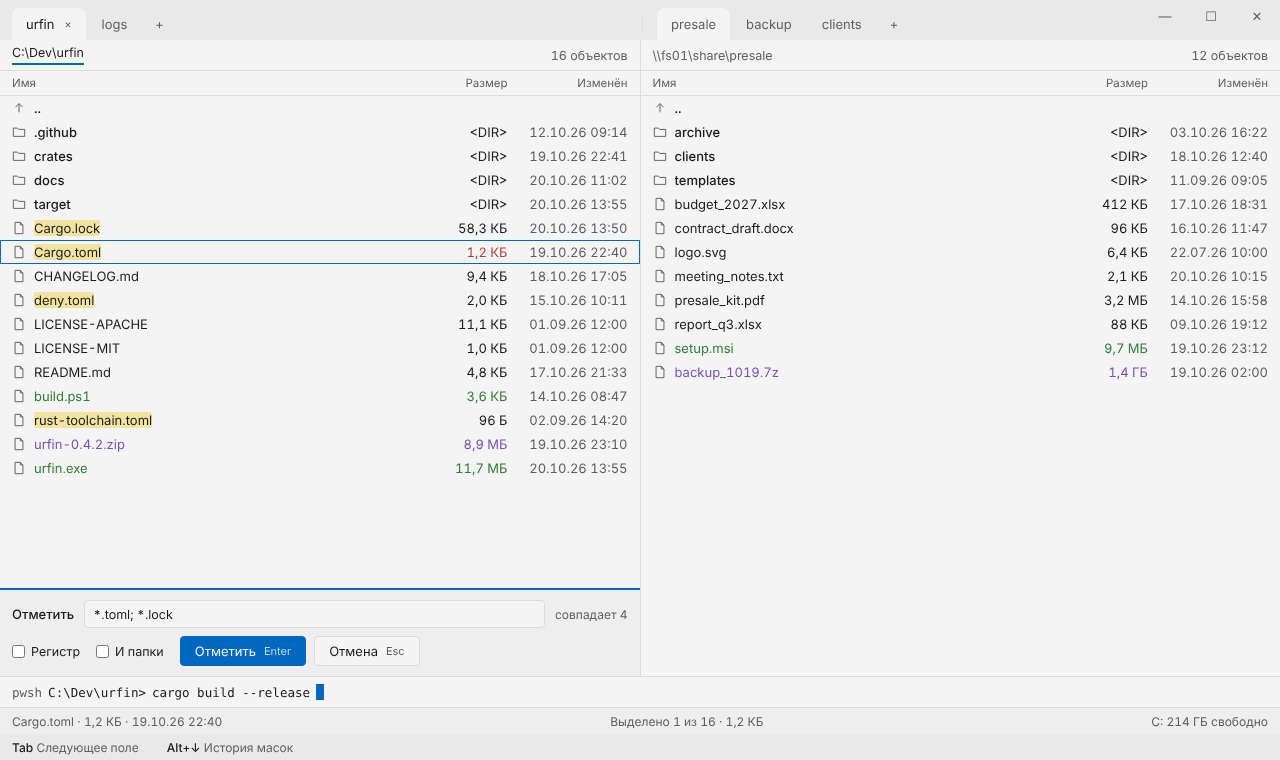
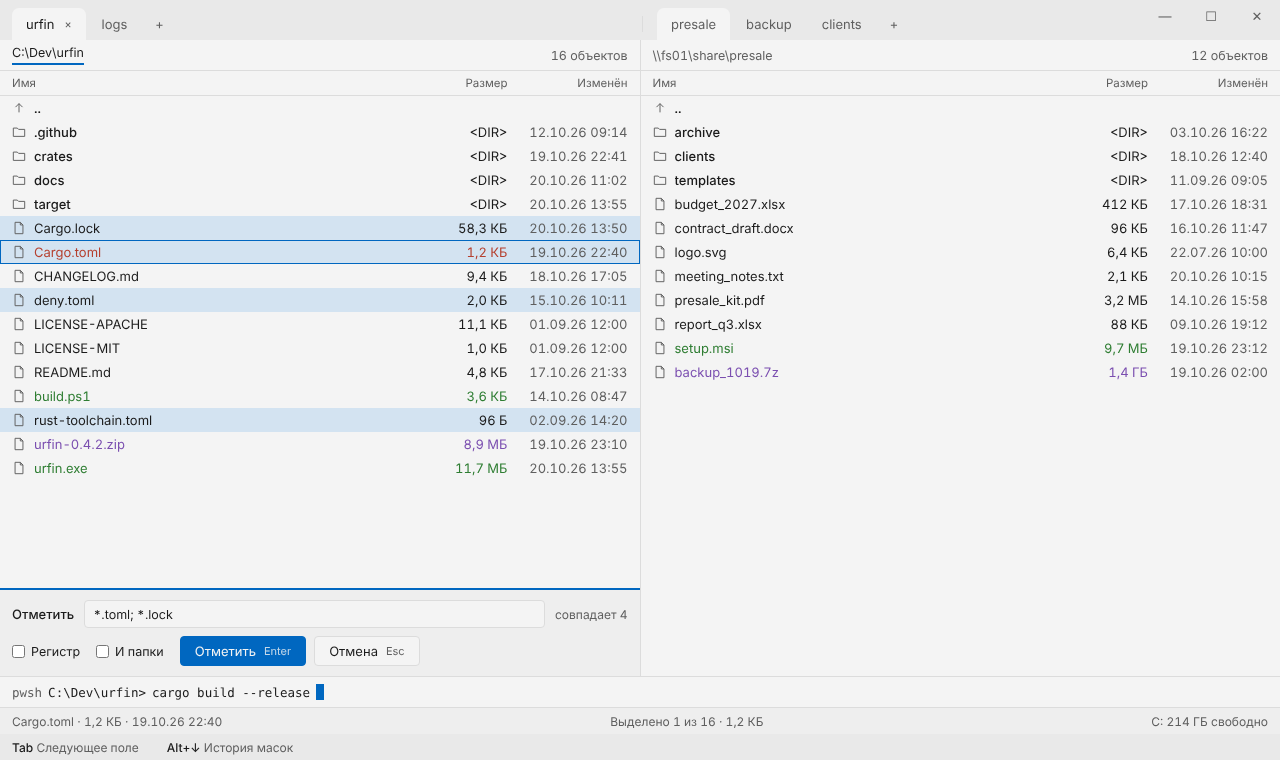
design: marking looks the same everywhere; Num+ preview uses it
Claude-Session: https://claude.ai/code/session_013ZpcYnbJMYkHW4aMDDmFTq

Changed region(s): [[0.0, 0.2724, 0.5, 0.4237], [0.0, 0.5145, 0.5, 0.575]]

diff --git a/docs/design/window.dc.html b/docs/design/window.dc.html
@@ -763,7 +763,7 @@ const qs = screen === "quick" ? "car" : "";
 const kindColor = {up:t.t,d:t.t,f:t.t,m:t.k,x:t.ex,a:t.ar};
 const rows = (list, c, ex) => list.map((q, i) => {
 const xe = (ex && ex[i]) || {};
-const kind = q[1], isC = i === c, isM = (marked.indexOf(i) >= 0 && c >= 0) || !!xe.m;
+const kind = q[1], isC = i === c, isM = (marked.indexOf(i) >= 0 && c >= 0) || !!xe.m || (screen === "select" && c >= 0 && /\.(toml|lock)$/i.test(q[0]));
 const col = kindColor[kind];
 const selBg = t.c, curRing = "; box-shadow: inset 0 0 0 1px " + t.a;
 const iconCol = (iconMode === "color" ? (kind === "d" || kind === "up" ? t.a : kindColor[kind]) : t.s);
@@ -771,7 +771,7 @@ return {
 name: q[0], size: kind === "d" ? "<DIR>" : q[2], date: q[3], packed: q[4] || "",
 renameTo: xe.to || "", toStyle: "font-weight: 500; color: " + (xe.bad ? t.k : t.a), tag: xe.tag || "",
 tagStyle: "margin-left: 4px; padding: 0 6px; border-radius: 4px; border: 1px solid " + t.b + "; color: " + t.s + "; font-size: 11px; font-weight: 400",
-...(() => { const nm = q[0]; if (screen === "rename" && c >= 0 && i === c) return { n1: "", n2: "", n3: "" }; if (screen === "select" && c >= 0 && /\.(toml|lock)$/i.test(nm)) return { n1: "", n2: nm, n3: "" }; if (qs && c >= 0 && nm.toLowerCase().indexOf(qs) === 0) return { n1: "", n2: nm.slice(0, qs.length), n3: nm.slice(qs.length) }; return { n1: nm, n2: "", n3: "" }; })(),
+...(() => { const nm = q[0]; if (screen === "rename" && c >= 0 && i === c) return { n1: "", n2: "", n3: "" }; if (qs && c >= 0 && nm.toLowerCase().indexOf(qs) === 0) return { n1: "", n2: nm.slice(0, qs.length), n3: nm.slice(qs.length) }; return { n1: nm, n2: "", n3: "" }; })(),
 mvEdit: screen === "rename" && isC, mvBase: q[0].replace(/\.[^.]*$/, ""), mvExt: (q[0].match(/\.[^.]*$/) || [""])[0],
 hlStyle: "background: " + t.hl + "; color: " + t.t + "; border-radius: 2px",
 isUp: kind === "up", isDir: kind === "d", isFile: kind !== "up" && kind !== "d",

diff --git a/docs/design/DESIGN.md b/docs/design/DESIGN.md
@@ -24,7 +24,7 @@
 | Таб панелей вне панелей (F3/F4/настройки) | 32 | только иконка «две панели», путь — во всплывающей подсказке |
 | Заголовок панели (путь) | 30 | активная панель — путь `text` с подчёркиванием 2 px `accent`; справа «N объектов» `secondary` |
 | Шапка колонок | 24 | 11,5 px `secondary`; Размер 92, Изменён 120, справа |
-| Строка списка | 20 / 24 / 28 | по `ui.density`, умолч. 24; как в Проводнике: отмеченные — фон `cursor` (один оттенок для всех), курсор — рамка 1 `accent`; курсор на отмеченной — фон + рамка; текст и раскраска типов не меняются |
+| Строка списка | 20 / 24 / 28 | по `ui.density`, умолч. 24; как в Проводнике: отмеченные — фон `cursor` (один оттенок для всех), курсор — рамка 1 `accent`; курсор на отмеченной — фон + рамка; текст и раскраска типов не меняются. **Отметка рисуется везде одинаково** (F5/F6/F8, Ctrl+A, переименование, сравнение, Num +) — она предшествует групповой операции; `highlight` — только для совпадений поиска |
 | Разделитель панелей | 1 | цвет `border` |
 | Командная строка | 30 | моно 12,5; шелл `secondary`; каретка — блок 8×16 `accent` |
 | Статус-строка | 26 | фон `header`, 12 px `secondary`, три зоны: свойства файла · выделение · свободно на томе |
@@ -49,7 +49,7 @@
 | `screen-terminal.png` | Ctrl+O: панели скрыты, под ними — терминал на всю область между заголовком и keybar (PTY не ресайзится, S6 §3); моно 13, строка 19; вывод прижат к низу; ввод — в командной строке; в статусе — shell и интеграция; keybar — клавиши терминала; **табов нет** — в заголовке только кнопки окна | S6 |
 | `screen-termhalf.png` | Ctrl+F1: левая панель скрыта, терминал виден под ней; правая панель активна, её набор табов — активный; **набор табов скрытой панели не показывается** | S6 |
 | `screen-context.png` | Контекстное меню (правая кнопка, Shift+F10): плашка 300 у курсора, без корешка — якоря-кнопки нет; пункт 28, клавиши справа `secondary`, «›» — подменю, последний раздел — «Меню Проводника ›» (системное меню оболочки) | G-05 |
-| `screen-select.png` | Num + / Num −: строка внизу активной панели в две строки — «Отметить» + маска (несколько через `;`) + «совпадает N»; «Регистр», «И папки», Отметить (Enter) / Отмена (Esc). Пока строка открыта, совпавшие имена подсвечены `highlight` (предпросмотр отметки) | G-05 |
+| `screen-select.png` | Num + / Num −: строка внизу активной панели в две строки — «Отметить» + маска (несколько через `;`) + «совпадает N»; «Регистр», «И папки», Отметить (Enter) / Отмена (Esc). Пока строка открыта, совпавшие строки уже показаны обычной отметкой (живой предпросмотр, Esc откатывает) | G-05 |
 | `screen-journal.png` | Баннер журнала операций (S5-12) — строка 40 в зоне событий над job-баром, фон `warning_bg`, черта сверху `context_remote`, **сдвигает** панели (живёт до ответа); баннеров несколько — показывается один и «ещё N»: значок часов `context_remote`, «Прервано при выходе:» + что и куда + «выполнено ≈ N %», кнопки «Продолжить» (основная) / «Очистить» — сразу за текстом | D-04 / S5-12 |
 | `screen-multirename.png` | Групповое переименование (S5-23): строка внизу активной панели — «Новые имена» + шаблон моно + «изменится N · проблем M»; ряд вставок `[N]` `[E]` `[C]` `[Y][M][D]`, «найти/замена через /»; превью прямо в списке: «старое → новое» `accent`, проблема (повтор, ошибка) — `modified` | D-04 / S5-23 |
 | `screen-compare.png` | Сравнение папок (S5-24): отличия отмечены в обеих панелях, у строки — метка причины («новее», «только здесь») в рамке `border`; итог — **встроенная строка на всю ширину** (черта `accent`): «Сравнение папок: только слева N · только справа N · новее … · одинаковых N», Синхронизировать → (Enter) / ← (Shift+Enter) / Закрыть (Esc) | D-04 / S5-24 |
